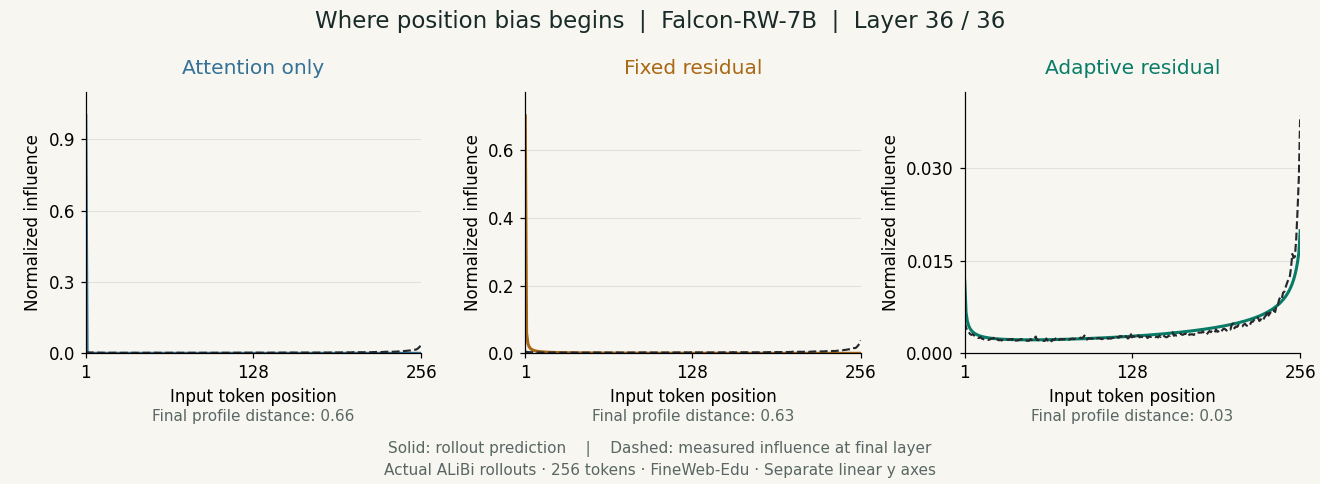
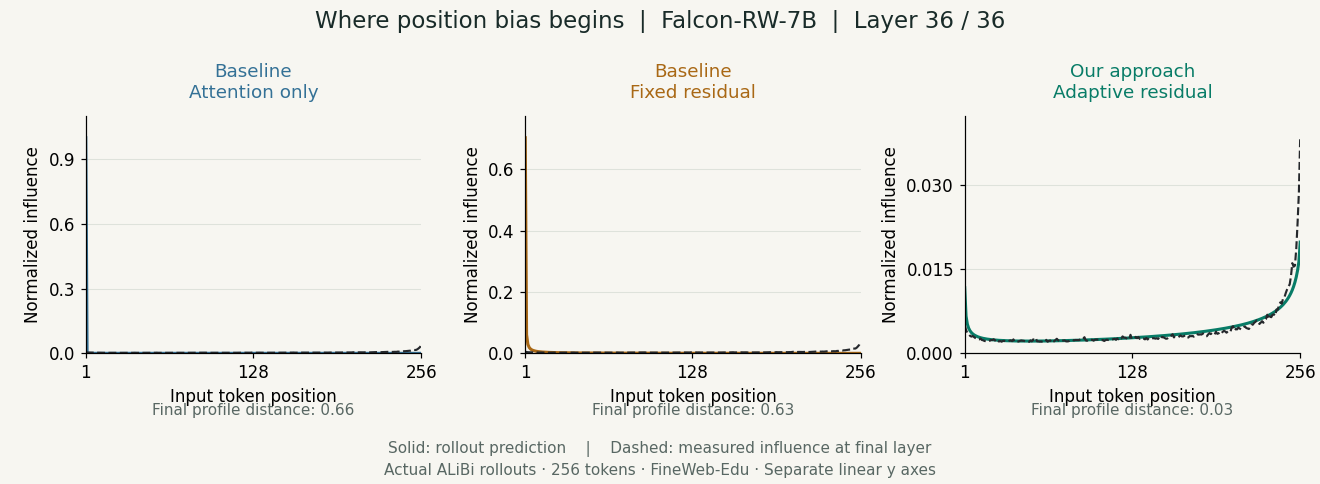
Label rollout baselines and adaptive approach in explainer

diff --git a/docs/style.css b/docs/style.css
@@ -6,6 +6,7 @@
 .opening{padding:42px 0 30px;border-bottom:1px solid var(--rule);max-width:100%;min-height:330px}.opening>.eyebrow{margin-bottom:23px}.opening-sentence{font-family:Georgia,"Times New Roman",serif;font-size:clamp(24px,3.5vw,41px);line-height:1.5;letter-spacing:-.03em;margin:0 0 22px}.opening-sentence>span{display:block}.opening-bottom{display:flex;align-items:center;justify-content:space-between;gap:20px}.opening-caption strong{font-size:15px;font-weight:600;display:block}.opening-caption span{display:block;font-size:11px;color:var(--muted)}.opening #opening-control{font-size:11px}.has-intro .sentence-middle{animation:middle-fades 4s ease-in-out forwards}.has-intro .opening-caption{animation:caption-appears 4s ease forwards}.has-intro:not(.intro-done) .page-content{opacity:0;animation:explanation-appears .7s ease 3.8s forwards}.intro-done .page-content{opacity:1}.opening.replaying .sentence-middle{animation:middle-fades 4s ease-in-out forwards}.opening.replaying .opening-caption{animation:caption-appears 4s ease forwards}.intro-done .opening:not(.replaying) .sentence-middle{opacity:.06;animation:none}.intro-done .opening:not(.replaying) .opening-caption{opacity:1;animation:none}.intro-done .hero{padding-top:45px}
 .opening h1{font-size:clamp(52px,6.5vw,76px);margin-bottom:24px}.opening-lead{margin-bottom:16px}.opening-context{max-width:760px;font-size:15px;line-height:1.65;margin-bottom:28px}.has-intro .sentence-middle,.has-intro .opening-caption,.opening.replaying .sentence-middle,.opening.replaying .opening-caption{animation-duration:6s}.has-intro:not(.intro-done) .page-content{animation-delay:5.8s}
 /* One shared style for explanatory section headings, distinct from chart labels. */
+.chart-header{min-height:68px}.approach-label{font-size:11px;font-weight:600;letter-spacing:.07em;text-transform:uppercase;color:var(--muted);margin-bottom:5px}.chart-panel[data-variant="adaptive"] .approach-label{color:var(--green)}.chart-header>.chart-rule{padding-top:20px}
 article>.opening,article .hero,article .prose,article .experiment{width:100%;max-width:none;margin-left:0;margin-right:0}
 article .lead,article .opening-context,article .chart-intro,article .technical-note{max-width:none}
 article .eyebrow,article .opening>.eyebrow{margin:0 0 10px}

diff --git a/docs/app.js b/docs/app.js
@@ -48,9 +48,13 @@
       const panel = document.createElement("div");
       panel.className = "chart-panel"; panel.dataset.variant = variant;
       const heading = document.createElement("div"); heading.className = "chart-header";
+      const headingGroup = document.createElement("div"); headingGroup.className = "chart-heading";
+      const approach = document.createElement("div"); approach.className = "approach-label";
+      approach.textContent = variant === "adaptive" ? "Our approach" : "Baseline";
       const h3 = document.createElement("h3"); h3.textContent = names[variant];
       const rule = document.createElement("div"); rule.className = "chart-rule"; rule.textContent = rules[variant];
-      heading.append(h3,rule);
+      headingGroup.append(approach,h3);
+      heading.append(headingGroup,rule);
       const svg = el("svg",{role:"img"});
       const metric = document.createElement("p"); metric.className = "distance";
       const metricName = document.createElement("span"); metricName.textContent = "Profile distance";
